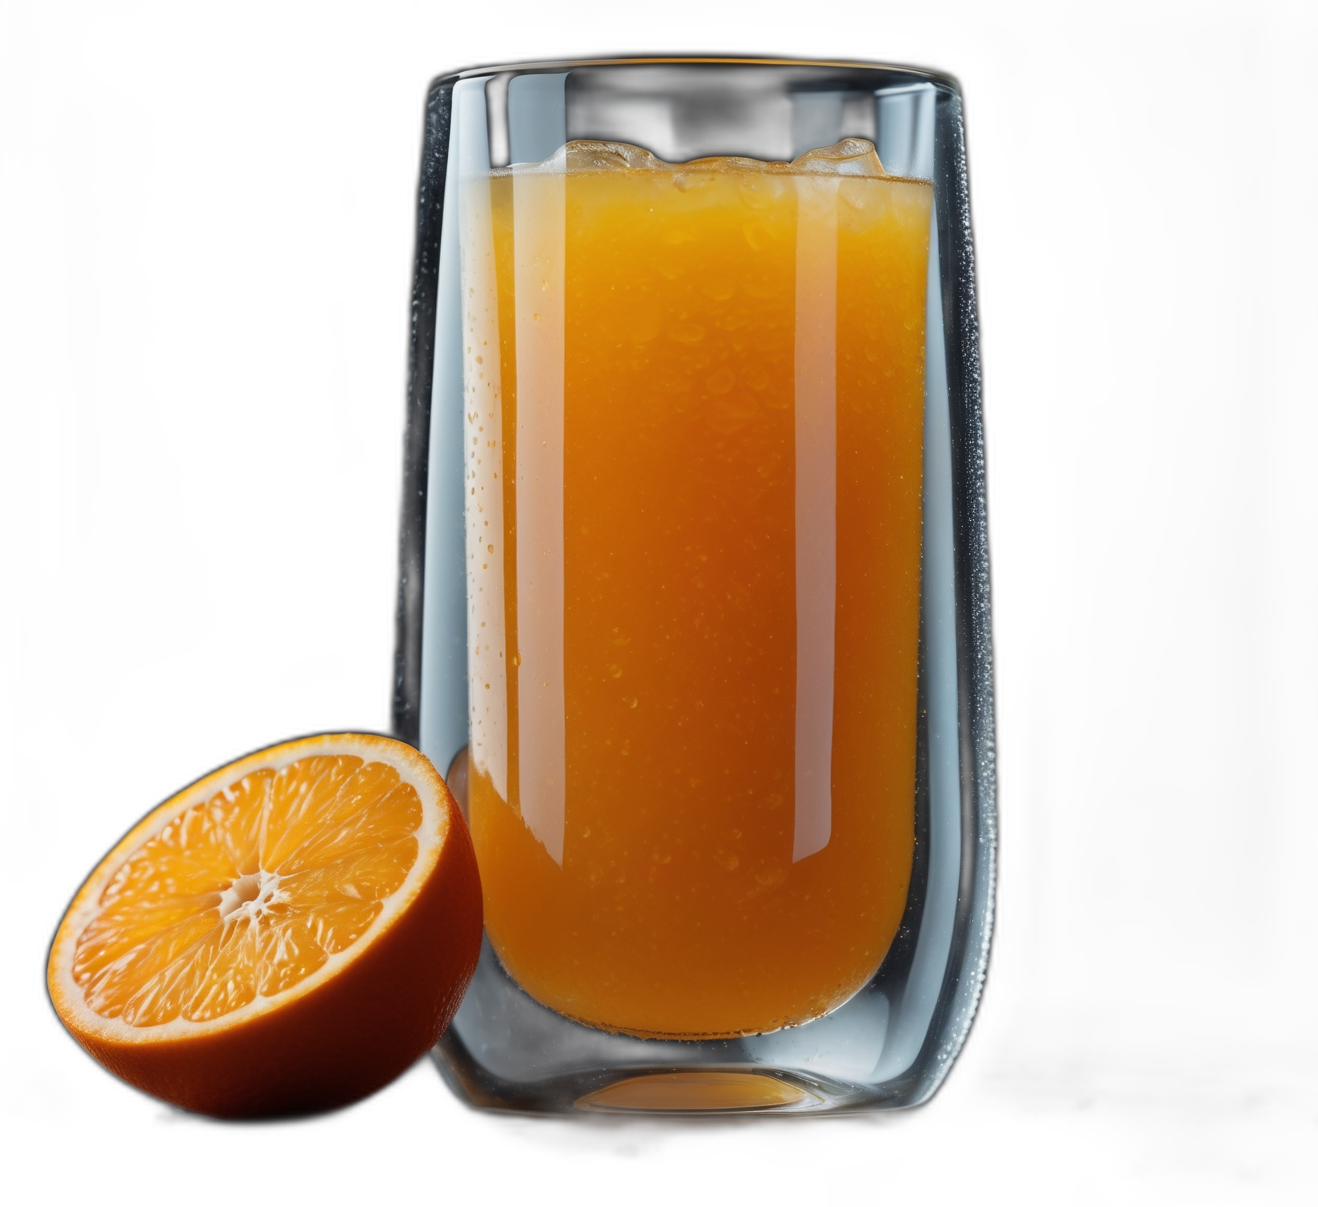
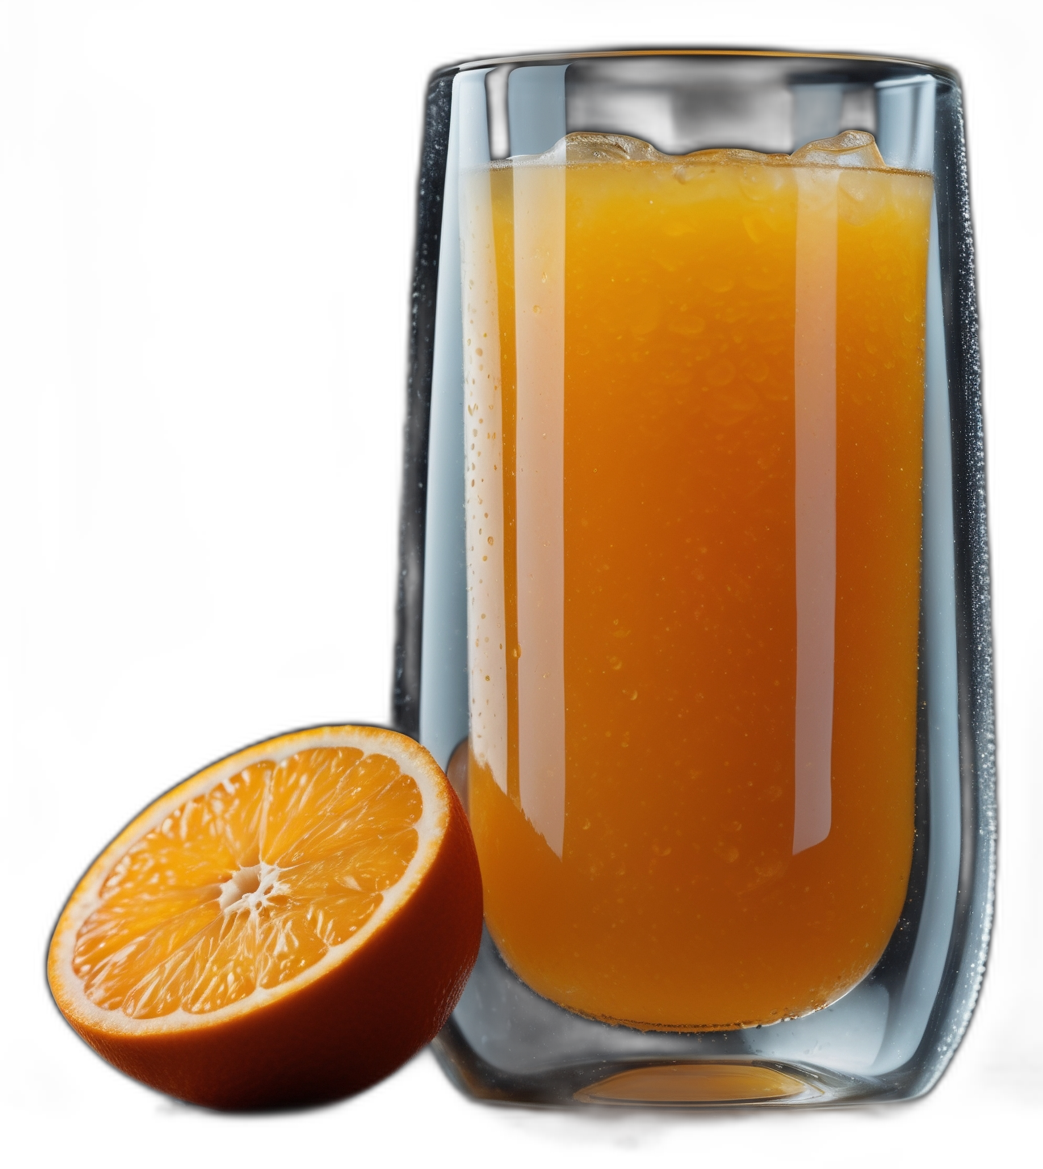
Your commit message

diff --git a/index.html b/index.html
@@ -245,11 +245,10 @@ img[src*="kelloggs-coco-pops-bar"]{transform:scale(1.08);transform-origin:center
 /* Fresh & Blended group: bottom-anchor the whole row instead of vertically centering it. These cards have longer text (some with a base-selector), so centering left visible empty gaps above/below the photo on shorter cards like Simple Protein — anchoring to the bottom makes every glass look like it's actually resting on something, and keeps them level with each other regardless of how much text is in the card next to them. */
 /* (removed: align-items:flex-end for this group — it looked worse on Simple Protein specifically, since its image is much shorter than its text column, so bottom-anchoring just moved the empty space to one big awkward gap above the image instead of splitting it top/bottom. Reverted to the default center alignment; see the Simple Protein-specific fix further down instead.) */
 /* Fresh juices & smoothies: auto width from each photo's own aspect ratio at 190px height */
-img[src*="Orange_fresh"],img[src*="Grapefruit_fresh"],img[src*="Orange_grapefruit"],img[src*="Energy_mix"],img[src*="Blue_banana"],img[src*="Strawberry_banana"],img[src*="Berry_mix"]{width:auto;height:190px;max-width:220px;min-width:80px;object-fit:contain;object-position:center;margin-right:0;flex-shrink:1;flex-grow:0}
-/* Orange Fresh: I measured this precisely from your screenshots (not eyeballing) — its BOX sits exactly 23px from the card's right edge, identical to Grapefruit Fresh and everything else in this row. The box is correct. The gap is inside the photo itself: comparing visible-content width against Grapefruit Fresh's (which reaches its own box edge almost exactly), Orange_fresh.png appears to have roughly 25-30% dead transparent space on its right side, baked into the file. So this switches from object-fit:contain (shows the whole file, gap included) to object-fit:cover with a narrower box and object-position:left — this crops the empty right-hand strip off instead of just resizing around it. The 175px width below is my best estimate of how much to crop based on that measurement — it is still a guess without the real file. If it's cropping too much (cutting into the glass) or too little (gap still visible), adjust the width number: smaller width = more aggressive crop, larger = less. This is the last CSS-only attempt I'd recommend — for an exact fix, send the actual Orange_fresh.png and I'll measure the real transparent margin directly instead of estimating it from a screenshot. */
-img[src*="Orange_fresh"]{width:175px;height:256px;max-width:175px;min-width:80px;object-fit:cover;object-position:left bottom;margin-right:0;margin-top:0;flex-shrink:1;flex-grow:0}
-/* Simple Protein: narrower source photo (no fruit garnish beside it), sized/positioned on its own so it doesn't look small next to its siblings. Same caveat as Orange Fresh above — if it still looks small/off once bottom-anchored, that's also likely file padding rather than something fixable from box sizing alone. */
-img[src*="Simple_protein"]{width:auto;height:218px;max-width:200px;min-width:80px;object-fit:contain;object-position:center bottom;margin-right:0;flex-shrink:1;flex-grow:0}
+/* Orange_fresh.png and Simple_protein.png were re-cropped at the file level (real transparent-margin measurement, not a screenshot guess) so they now match the ~92% content-fill of their siblings — the old object-fit:cover / oversized-box hacks are gone, both just use the shared rule now. */
+img[src*="Orange_fresh"],img[src*="Grapefruit_fresh"],img[src*="Orange_grapefruit"],img[src*="Energy_mix"],img[src*="Blue_banana"],img[src*="Strawberry_banana"],img[src*="Berry_mix"],img[src*="Simple_protein"]{width:auto;height:190px;max-width:220px;min-width:80px;object-fit:contain;object-position:center;margin-right:0;flex-shrink:1;flex-grow:0}
+/* Simple Protein: nudge a bit right within its box (per request) — the crop fix made it size correctly but it still reads slightly left/centered next to its garnished siblings. */
+img[src*="Simple_protein"]{transform:translateX(10px)}
 /* Powerade — bumped up from the 190px bottle default */
 img[src*="mountain-blast-blue"],img[src*="powerade-orange"]{height:215px;max-width:112px;margin-top:0}
 /* Kombucha (all 6 flavours share this filename prefix) — bumped up from the 190px bottle default */
@@ -273,9 +272,7 @@ img[src*="Red-bull-sugar-free"]{transform:scaleX(1.19);transform-origin:center c
   .card-img-can{height:130px;max-width:72px;min-width:40px}
   .card-img-bottle{height:150px;max-width:70px;min-width:40px}
   .card-img-tea{height:150px;max-width:150px;min-width:70px}
-  img[src*="Orange_fresh"],img[src*="Grapefruit_fresh"],img[src*="Orange_grapefruit"],img[src*="Energy_mix"],img[src*="Blue_banana"],img[src*="Strawberry_banana"],img[src*="Berry_mix"]{height:150px;max-width:150px;min-width:70px}
-  img[src*="Orange_fresh"]{width:138px;height:202px;max-width:138px;min-width:70px;object-fit:cover;object-position:left bottom}
-  img[src*="Simple_protein"]{height:172px;max-width:145px;min-width:70px}
+  img[src*="Orange_fresh"],img[src*="Grapefruit_fresh"],img[src*="Orange_grapefruit"],img[src*="Energy_mix"],img[src*="Blue_banana"],img[src*="Strawberry_banana"],img[src*="Berry_mix"],img[src*="Simple_protein"]{height:150px;max-width:150px;min-width:70px}
   img[src*="mountain-blast-blue"],img[src*="powerade-orange"],img[src*="SCOBYSUN_Kombucha"]{height:165px;max-width:82px}
   img[src*="Corona-extra"],img[src*="Corona-zero"]{height:175px;max-width:88px;margin-top:10px}
   img[src*="heineken-00-bottle"]{height:150px;margin-top:14px;transform:scale(0.92);transform-origin:top center}
@@ -283,9 +280,7 @@ img[src*="Red-bull-sugar-free"]{transform:scaleX(1.19);transform-origin:center c
 }
 @media(max-width:340px){
   .card-img-tea{height:120px;max-width:110px;min-width:60px}
-  img[src*="Orange_fresh"],img[src*="Grapefruit_fresh"],img[src*="Orange_grapefruit"],img[src*="Energy_mix"],img[src*="Blue_banana"],img[src*="Strawberry_banana"],img[src*="Berry_mix"]{height:120px;max-width:110px;min-width:60px}
-  img[src*="Orange_fresh"]{width:110px;height:162px;max-width:110px;min-width:60px;object-fit:cover;object-position:left bottom}
-  img[src*="Simple_protein"]{height:120px;max-width:95px;min-width:60px}
+  img[src*="Orange_fresh"],img[src*="Grapefruit_fresh"],img[src*="Orange_grapefruit"],img[src*="Energy_mix"],img[src*="Blue_banana"],img[src*="Strawberry_banana"],img[src*="Berry_mix"],img[src*="Simple_protein"]{height:120px;max-width:110px;min-width:60px}
 }
 </style>
 </head>
